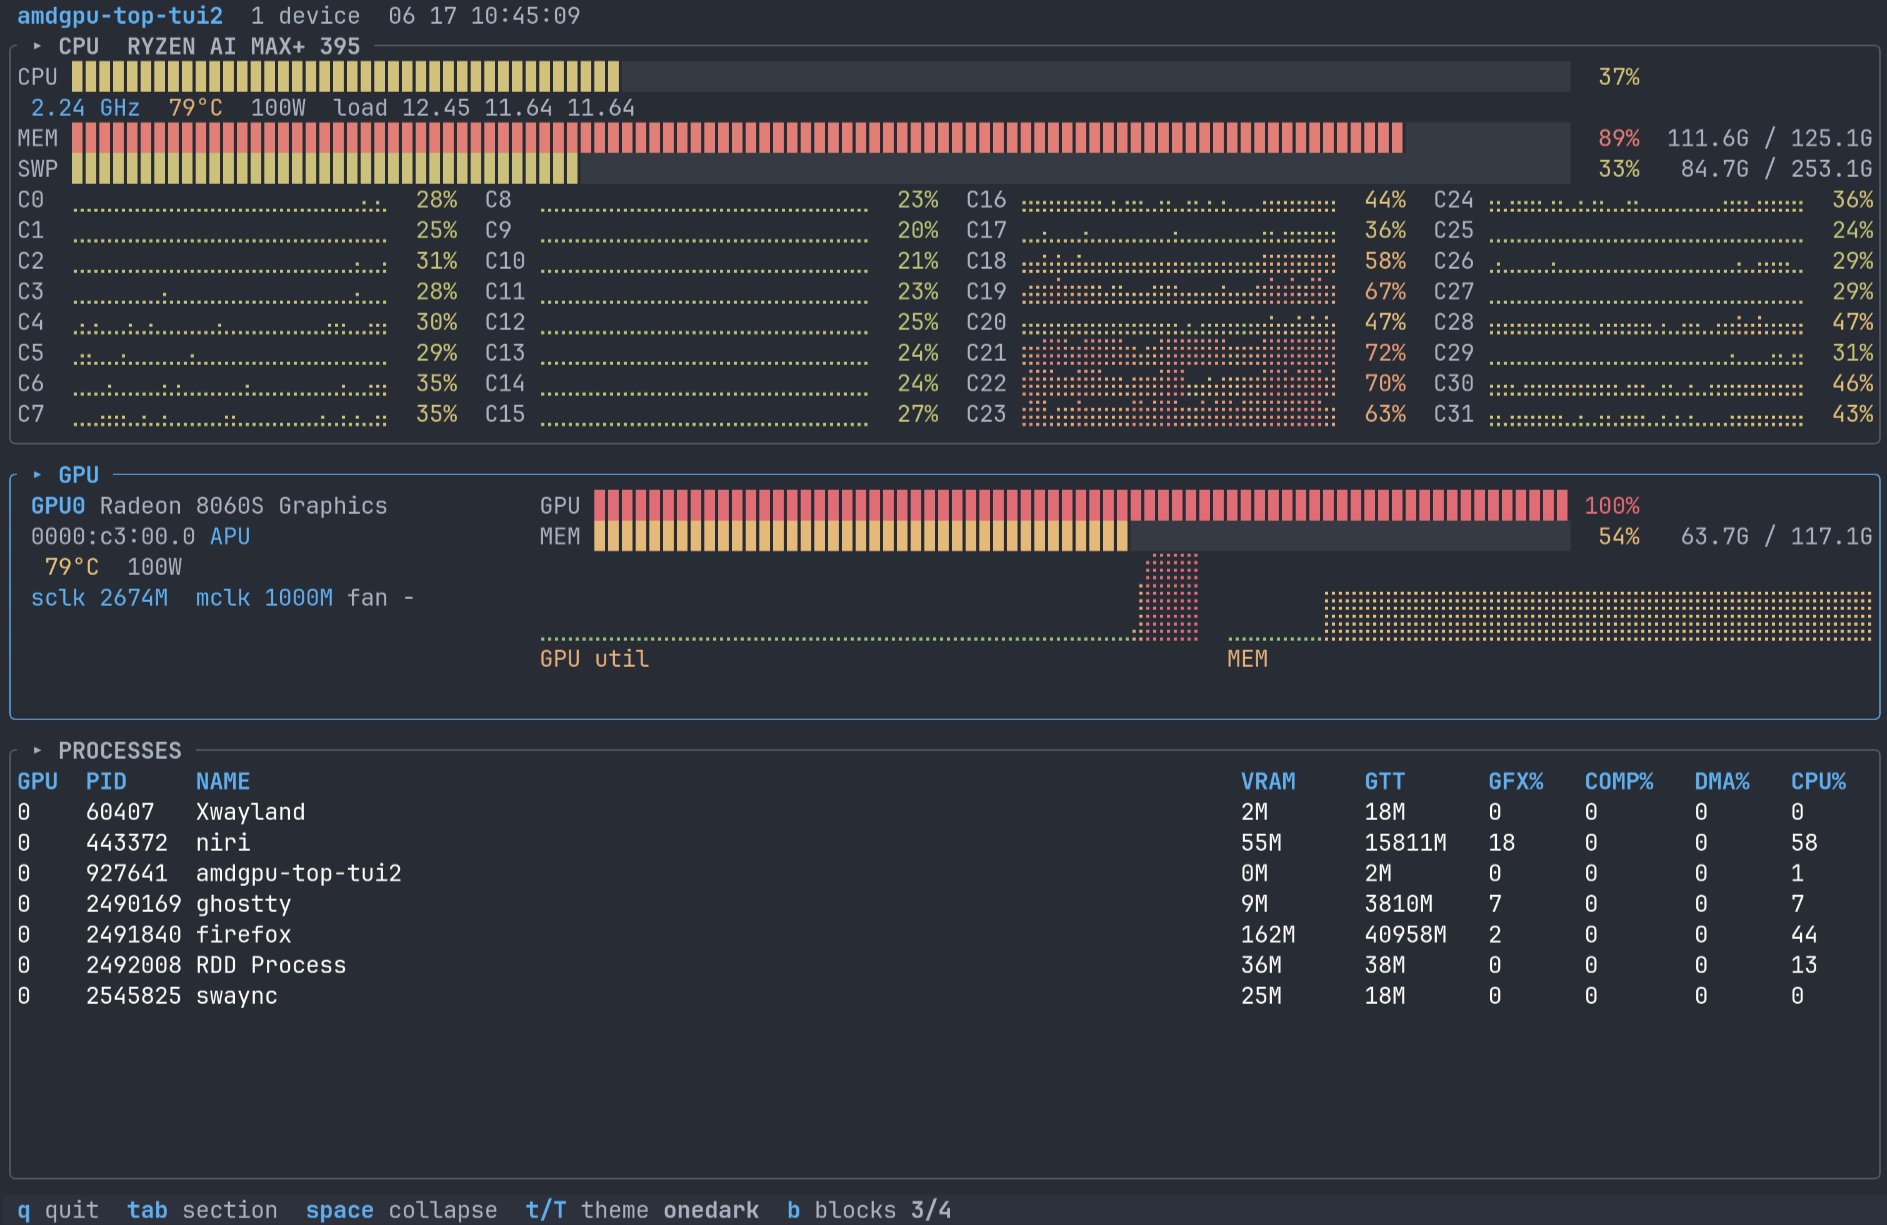
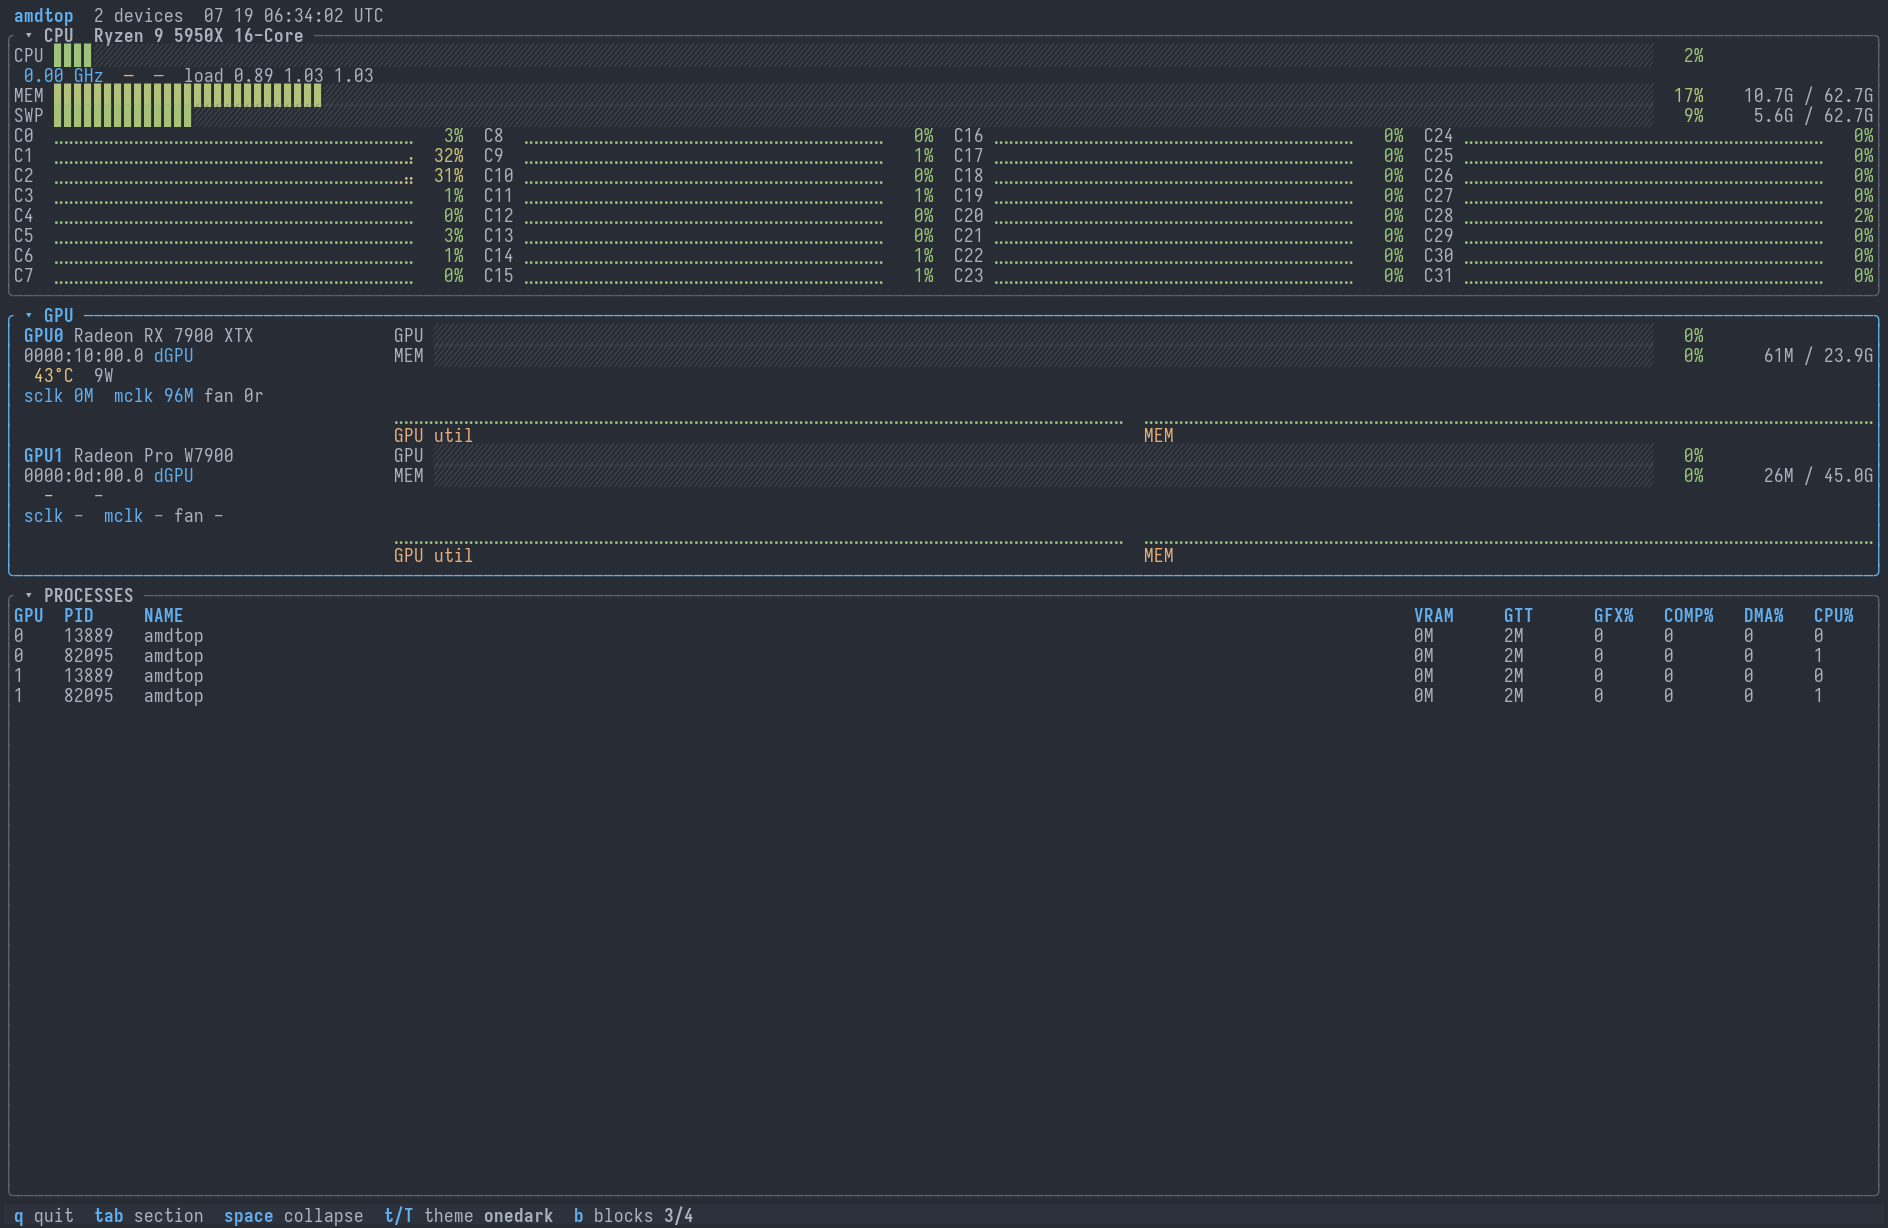
Prepare amdtop 0.2.1 for crates.io
Declare Rust 1.88 and complete package metadata, install only the amdtop binary, retain the smoke utility as an example, document crates.io and XDG usage, populate the 0.2.1 changelog, and refresh the branded screenshot.

diff --git a/CHANGELOG.md b/CHANGELOG.md
@@ -7,6 +7,39 @@ and this project adheres to [Semantic Versioning](https://semver.org/spec/v2.0.0
 
 ## [Unreleased]
 
+## [0.2.1] - 2026-07-19
+
+### Added
+
+- Added `--help` and `--version` command-line options.
+- Added unit and integration coverage for configuration, telemetry parsers,
+  sampling, gauges, history graphs, themes, layout helpers, and CLI behavior.
+- Added crates.io package metadata and documented the amdtop state path.
+
+### Changed
+
+- Declared Rust 1.88 as the minimum supported toolchain.
+- Moved the hardware smoke utility to a Cargo example so installation produces
+  only the `amdtop` executable.
+- Split TUI rendering into focused CPU, GPU, NPU, and process modules.
+- Simplified GPU memory selection, cached parsed theme colors, and used a ring
+  buffer for telemetry history.
+- Applied rustfmt and removed dead code and Clippy warnings throughout.
+
+### Fixed
+
+- Honor `XDG_CONFIG_HOME` for persisted UI state and write state atomically.
+- Use real elapsed time for telemetry samples instead of resampling on every
+  keypress.
+- Restore terminal state reliably after setup errors, runtime errors, or panics.
+- Correct Linux CPU accounting for `guest_nice` time and reject malformed
+  `/proc/stat` samples.
+- Correct xterm indexed-color conversion and strict decimal theme parsing.
+- Clamp memory percentages, handle zero-sized GPU memory pools, and ignore zero
+  GPU power caps.
+- Use conventional disclosure indicators for collapsed and expanded sections.
+- Refresh the README screenshot and all release documentation for amdtop.
+
 ## [0.2.0] - 2026-07-19
 
 ### Changed
@@ -31,6 +64,7 @@ and this project adheres to [Semantic Versioning](https://semver.org/spec/v2.0.0
 - Collapsible sections, persistent UI state, btop theme support, and selectable
   gauge styles.
 
-[Unreleased]: https://github.com/lhl/amdtop/compare/v0.2.0...HEAD
+[Unreleased]: https://github.com/lhl/amdtop/compare/v0.2.1...HEAD
+[0.2.1]: https://github.com/lhl/amdtop/compare/v0.2.0...v0.2.1
 [0.2.0]: https://github.com/lhl/amdtop/compare/v0.1.0...v0.2.0
 [0.1.0]: https://github.com/lhl/amdtop/releases/tag/v0.1.0

diff --git a/README.md b/README.md
@@ -35,8 +35,16 @@ layout.
 
 ## Install
 
-Requires a **Rust toolchain** and **`libdrm` development headers**, plus an AMD
-GPU/APU running the `amdgpu` kernel driver.
+Requires **Rust 1.88 or newer** and **`libdrm` development headers**, plus an
+AMD GPU/APU running the `amdgpu` kernel driver.
+
+Install from crates.io:
+
+```sh
+cargo install amdtop
+```
+
+Or install the latest development version from Git:
 
 ```sh
 cargo install --git https://github.com/lhl/amdtop
@@ -133,6 +141,17 @@ amdtop
 
 Section collapse state, the selected theme, and the gauge block style all
 persist across runs.
+
+## Configuration
+
+amdtop stores its UI state in:
+
+```text
+$XDG_CONFIG_HOME/amdtop/state.json
+```
+
+If `XDG_CONFIG_HOME` is unset, it uses `~/.config/amdtop/state.json`. btop theme
+files remain in the standard btop directories listed below.
 
 ### Gauge block styles
 